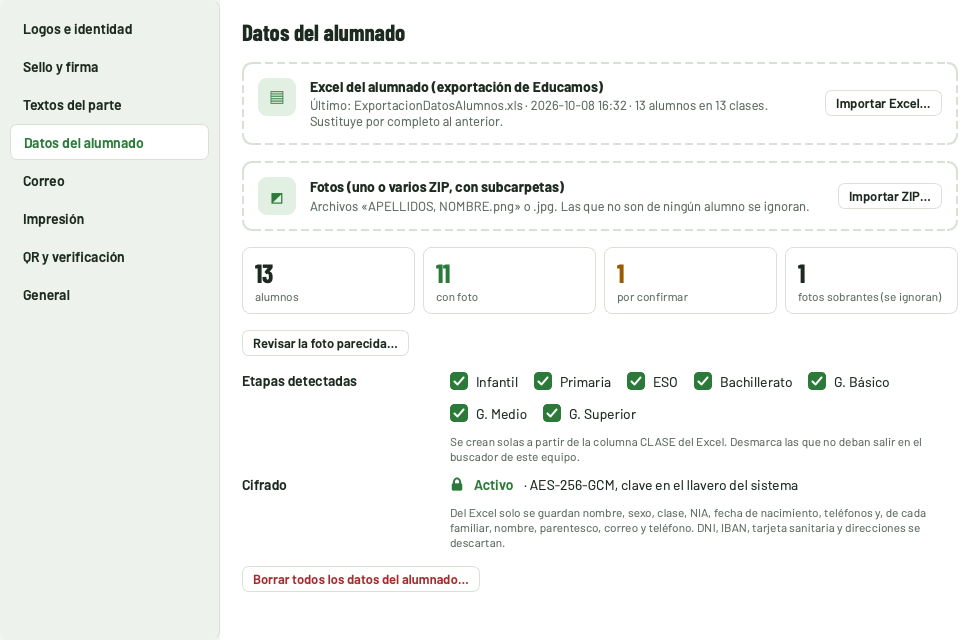
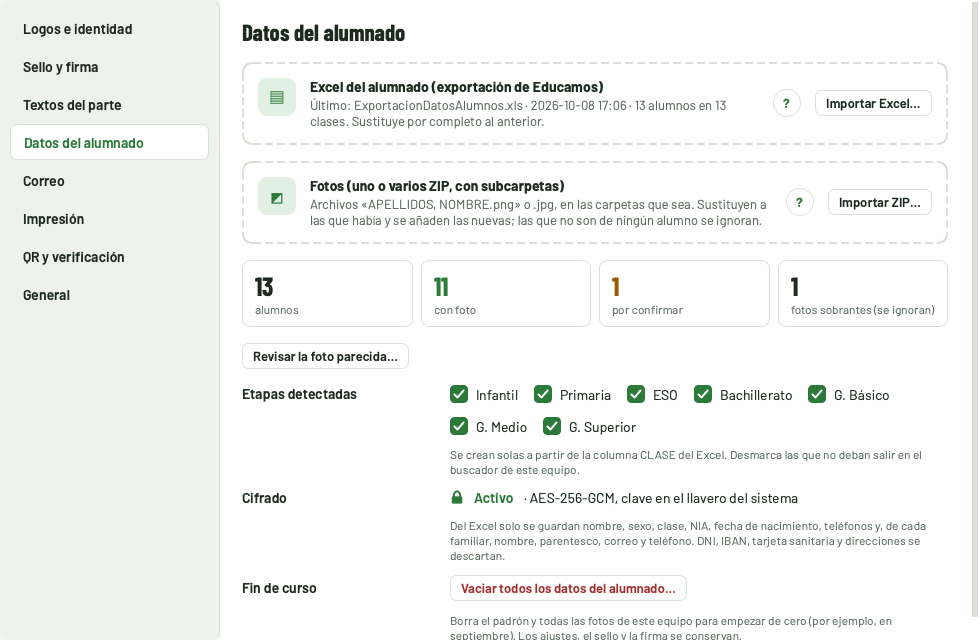
feat(importar): ayuda de Educamos y de fotos, papelera tras cifrar y vaciado de fin de curso (0.3.0)

diff --git a/src/partes_salida/ui/ajustes.py b/src/partes_salida/ui/ajustes.py
@@ -42,9 +42,17 @@ from ..modelo import ETAPA_CORTA, Alumno
 from ..rutas import carpeta_datos
 from ..sistema import arranque_con_sistema
 from . import estilo
+from .ayuda import AYUDA_EXCEL, AYUDA_FOTOS, DialogoAyuda
 from .componentes import FlujoLayout, Miniatura, Tarea, ZonaSoltar, boton, etiqueta
 
 logger = logging.getLogger(__name__)
+
+def enviar_a_papelera(ruta: str) -> bool:
+    from PyQt6.QtCore import QFile
+
+    resultado = QFile.moveToTrash(ruta)
+    return bool(resultado[0] if isinstance(resultado, tuple) else resultado)
+
 
 APARTADOS = [
     "Logos e identidad",
@@ -279,14 +287,17 @@ class DialogoAjustes(QDialog):
         self.zona_excel = ZonaSoltar(
             "Excel del alumnado (exportación de Educamos)", "", "Importar Excel…", (".xls", ".xlsx"), "▤"
         )
+        self.zona_excel.con_ayuda(lambda: self._ayuda(AYUDA_EXCEL))
         self.zona_excel.boton.clicked.connect(self._elegir_excel)
         self.zona_excel.archivos.connect(lambda r: self._importar_excel(r[0]))
         ap.poner(self.zona_excel)
         self.zona_fotos = ZonaSoltar(
             "Fotos (uno o varios ZIP, con subcarpetas)",
-            "Archivos «APELLIDOS, NOMBRE.png» o .jpg. Las que no son de ningún alumno se ignoran.",
+            "Archivos «APELLIDOS, NOMBRE.png» o .jpg, en las carpetas que sea. Sustituyen a las que había y se "
+            "añaden las nuevas; las que no son de ningún alumno se ignoran.",
             "Importar ZIP…", (".zip",), "◩",
         )
+        self.zona_fotos.con_ayuda(lambda: self._ayuda(AYUDA_FOTOS))
         self.zona_fotos.boton.clicked.connect(self._elegir_zips)
         self.zona_fotos.archivos.connect(self._importar_fotos)
         ap.poner(self.zona_fotos)
@@ -330,9 +341,11 @@ class DialogoAjustes(QDialog):
             "Del Excel solo se guardan nombre, sexo, clase, NIA, fecha de nacimiento, teléfonos y, de cada familiar, "
             "nombre, parentesco, correo y teléfono. DNI, IBAN, tarjeta sanitaria y direcciones se descartan.",
         )
-        borrar = boton("Borrar todos los datos del alumnado…", pequeno=True, peligro=True)
+        borrar = boton("Vaciar todos los datos del alumnado…", pequeno=True, peligro=True)
         borrar.clicked.connect(self._borrar_datos)
-        ap.poner(_fila(borrar))
+        ap.campo("Fin de curso", _fila(borrar),
+                 "Borra el padrón y todas las fotos de este equipo para empezar de cero (por ejemplo, en septiembre). "
+                 "Los ajustes, el sello y la firma se conservan.")
         ap.fin()
         self._refrescar_datos()
         return ap
@@ -546,6 +559,7 @@ class DialogoAjustes(QDialog):
             if not self.ctx.con_foto:
                 texto += "\n\nAhora importa los ZIP con las fotos."
             QMessageBox.information(self, "Excel importado", texto)
+            self._ofrecer_papelera([ruta], "el Excel")
 
         tarea.terminado.connect(listo)
         self._lanzar(tarea, progreso)
@@ -574,6 +588,7 @@ class DialogoAjustes(QDialog):
             QMessageBox.information(self, "Fotos importadas", texto)
             if informe.dudosas:
                 self._revisar()
+            self._ofrecer_papelera(rutas, "el ZIP" if len(rutas) == 1 else "los ZIP")
 
         tarea.terminado.connect(listo)
         self._lanzar(tarea, progreso)
@@ -594,11 +609,37 @@ class DialogoAjustes(QDialog):
             self.ctx.fotos_cambiadas()
             self._refrescar_datos()
 
+    def _ayuda(self, ayuda) -> None:
+        DialogoAyuda(ayuda, self).exec()
+
+    def _ofrecer_papelera(self, rutas: list[str], que: str) -> None:
+        """Tras cifrar, el original sobra y tiene datos sensibles (RGPD): a la papelera."""
+        existentes = [r for r in rutas if Path(r).exists()]
+        if not existentes:
+            return
+        caja = QMessageBox(self)
+        caja.setIcon(QMessageBox.Icon.Warning)
+        caja.setWindowTitle("Proteger los datos")
+        caja.setText(f"Los datos ya están cifrados en la app. ¿Envío {que} a la papelera?")
+        caja.setInformativeText(
+            "Contiene datos personales del alumnado y no hace falta conservarlo (RGPD). "
+            "Después, vacía la papelera.\n\n" + "\n".join(Path(r).name for r in existentes)
+        )
+        enviar = caja.addButton("Enviar a la papelera", QMessageBox.ButtonRole.AcceptRole)
+        caja.addButton("Lo borraré yo", QMessageBox.ButtonRole.RejectRole)
+        caja.setDefaultButton(enviar)
+        caja.exec()
+        if caja.clickedButton() is not enviar:
+            return
+        fallidos = [Path(r).name for r in existentes if not enviar_a_papelera(r)]
+        if fallidos:
+            QMessageBox.warning(self, "No se ha podido", "Bórralo a mano: " + ", ".join(fallidos))
+
     def _borrar_datos(self) -> None:
         r = QMessageBox.warning(
             self, "Borrar los datos del alumnado",
-            "Se borran el padrón y todas las fotos de este equipo. Los ajustes se conservan.\n\n"
-            "Para recuperarlos habrá que volver a importar el Excel y los ZIP.",
+            "Se borran el padrón y todas las fotos de este equipo. Los ajustes, el sello y la firma se conservan.\n\n"
+            "Para volver a tener datos habrá que importar el Excel y los ZIP del curso nuevo.",
             QMessageBox.StandardButton.Cancel | QMessageBox.StandardButton.Discard,
             QMessageBox.StandardButton.Cancel,
         )

diff --git a/src/partes_salida/ui/ayuda.py b/src/partes_salida/ui/ayuda.py
@@ -1,0 +1,117 @@
+"""Ayudas de la importación: de dónde sale cada archivo y qué hacer con él después.
+
+Los textos están aquí, juntos, para cambiarlos sin tocar la ventana de Ajustes.
+"""
+
+from __future__ import annotations
+
+from dataclasses import dataclass, field
+
+from PyQt6.QtCore import Qt
+from PyQt6.QtGui import QFont
+from PyQt6.QtWidgets import QDialog, QFrame, QGridLayout, QHBoxLayout, QLabel, QVBoxLayout
+
+from . import estilo
+from .componentes import boton, etiqueta
+
+
+@dataclass
+class Ayuda:
+    titulo: str
+    pasos: list[str]
+    aviso: str = ""
+    notas: list[str] = field(default_factory=list)
+
+
+AYUDA_EXCEL = Ayuda(
+    titulo="Cómo descargar el Excel de Educamos",
+    pasos=[
+        "Entra en <b>Educamos</b>.",
+        "Abre el menú <b>Datos</b> → <b>Import/Export</b>.",
+        "Elige <b>Exportación de datos de alumnos</b>.",
+        "Pulsa <b>Exportar</b> y descarga el archivo (<i>ExportacionDatosAlumnos.xls</i>).",
+        "Arrástralo a esta zona o pulsa <b>Importar Excel…</b>",
+    ],
+    aviso=(
+        "El Excel trae datos muy sensibles (DNI, IBAN, salud, direcciones). La app guarda solo lo necesario y lo "
+        "cifra; al terminar te ofrece <b>enviar el archivo a la papelera</b>. Después vacía la papelera: "
+        "conservarlo vulneraría el RGPD."
+    ),
+    notas=[
+        "Importar un Excel nuevo <b>sustituye a todo el alumnado anterior</b>: el archivo es el colegio entero.",
+        "Las fotos de quien sigue en el centro se conservan; las de las bajas se borran solas.",
+    ],
+)
+
+AYUDA_FOTOS = Ayuda(
+    titulo="Cómo preparar las fotos",
+    pasos=[
+        "Reúne las fotos en un <b>ZIP</b> (o en varios). Da igual cómo estén repartidas en carpetas y subcarpetas.",
+        "Cada foto debe llamarse como el alumno en Educamos: <b>APELLIDOS, NOMBRE</b> "
+        "(por ejemplo <i>GARCÍA LÓPEZ, LUCÍA.png</i>), en PNG o JPG. Tildes y mayúsculas dan igual.",
+        "Arrastra el ZIP a esta zona o pulsa <b>Importar ZIP…</b>",
+        "Si el nombre de una foto casi coincide (una tilde, una errata), la app te la enseña para que la confirmes. "
+        "Las que no son de nadie se ignoran.",
+    ],
+    aviso=(
+        "La app descomprime en memoria, reduce y <b>cifra cada foto</b>. El ZIP ya no hace falta: al terminar te "
+        "ofrece <b>enviarlo a la papelera</b>. Vacíala después."
+    ),
+    notas=[
+        "Volver a importar fotos <b>sustituye las que ya tenía</b> un alumno y <b>añade</b> las nuevas.",
+    ],
+)
+
+
+class DialogoAyuda(QDialog):
+    def __init__(self, ayuda: Ayuda, padre=None):
+        super().__init__(padre)
+        self.setWindowTitle("Ayuda")
+        self.setMinimumWidth(560)
+        capa = QVBoxLayout(self)
+        capa.setContentsMargins(26, 22, 26, 20)
+        capa.setSpacing(14)
+        titulo = QLabel(ayuda.titulo)
+        titulo.setFont(estilo.fuente(24, QFont.Weight.Bold, estilo.TITULAR))
+        capa.addWidget(titulo)
+
+        pasos = QGridLayout()
+        pasos.setHorizontalSpacing(12)
+        pasos.setVerticalSpacing(10)
+        for i, texto in enumerate(ayuda.pasos, start=1):
+            numero = QLabel(str(i))
+            numero.setFixedSize(26, 26)
+            numero.setAlignment(Qt.AlignmentFlag.AlignCenter)
+            numero.setStyleSheet(
+                f"background:{estilo.T['accent']};color:{estilo.T['accent_ink']};border-radius:13px;font-weight:700;"
+            )
+            pasos.addWidget(numero, i, 0, Qt.AlignmentFlag.AlignTop)
+            linea = QLabel(texto)
+            linea.setWordWrap(True)
+            linea.setTextFormat(Qt.TextFormat.RichText)
+            pasos.addWidget(linea, i, 1)
+        pasos.setColumnStretch(1, 1)
+        capa.addLayout(pasos)
+
+        if ayuda.aviso:
+            caja = QFrame()
+            caja.setStyleSheet(f"QFrame {{ background:{estilo.T['warn_soft']}; border-radius:9px; }}")
+            fila = QHBoxLayout(caja)
+            fila.setContentsMargins(14, 12, 14, 12)
+            texto = QLabel(f"<b>Protección de datos.</b> {ayuda.aviso}")
+            texto.setWordWrap(True)
+            texto.setStyleSheet(f"color:{estilo.T['warn']};")
+            fila.addWidget(texto)
+            capa.addWidget(caja)
+        if ayuda.notas:
+            n = etiqueta("<br>".join(f"• {nota}" for nota in ayuda.notas), "muted", envolver=True)
+            n.setTextFormat(Qt.TextFormat.RichText)
+            capa.addWidget(n)
+
+        botones = QHBoxLayout()
+        botones.addStretch(1)
+        entendido = boton("Entendido", primario=True)
+        entendido.setDefault(True)
+        entendido.clicked.connect(self.accept)
+        botones.addWidget(entendido)
+        capa.addLayout(botones)

diff --git a/tests/test_interfaz.py b/tests/test_interfaz.py
@@ -163,3 +163,58 @@ def test_presentacion_cuenta_la_carga_y_acerca_de_se_cierra(qtbot, datos):
     a.show()
     qtbot.mouseClick(a, Qt.MouseButton.LeftButton)
     assert not a.isVisible()
+
+
+def test_ayudas_de_importacion_junto_a_cada_zona(qtbot, contexto, monkeypatch):
+    from partes_salida.ui.ajustes import DialogoAjustes
+    from partes_salida.ui.ayuda import AYUDA_EXCEL, AYUDA_FOTOS, DialogoAyuda
+
+    abiertas = []
+    monkeypatch.setattr(DialogoAyuda, "exec", lambda self: abiertas.append(self.windowTitle()) or 1)
+    d = DialogoAjustes(contexto, None, "Datos del alumnado")
+    qtbot.addWidget(d)
+    assert not d.zona_excel.ayuda.isHidden() and not d.zona_fotos.ayuda.isHidden()
+    qtbot.mouseClick(d.zona_excel.ayuda, Qt.MouseButton.LeftButton)
+    qtbot.mouseClick(d.zona_fotos.ayuda, Qt.MouseButton.LeftButton)
+    assert len(abiertas) == 2
+    assert any("Import/Export" in p for p in AYUDA_EXCEL.pasos)
+    assert any("APELLIDOS, NOMBRE" in p for p in AYUDA_FOTOS.pasos)
+    for ayuda in (AYUDA_EXCEL, AYUDA_FOTOS):
+        qtbot.addWidget(DialogoAyuda(ayuda))
+
+
+def test_enviar_a_la_papelera(tmp_path):
+    from partes_salida.ui.ajustes import enviar_a_papelera
+
+    archivo = tmp_path / "x.txt"
+    archivo.write_text("x")
+    if enviar_a_papelera(str(archivo)):
+        assert not archivo.exists()
+
+
+def test_reimportar_excel_sustituye_y_conserva_fotos_de_quien_sigue(contexto, alumnos):
+    nerea = next(a for a in alumnos if a.nombre == "NEREA")
+    marc = next(a for a in alumnos if a.nombre == "MARC")
+    assert contexto.almacen.tiene_foto(nerea.id) and contexto.almacen.tiene_foto(marc.id)
+    borradas = contexto.nuevo_padron([nerea], "nuevo.xlsx")
+    assert [a.id for a in contexto.alumnos] == [nerea.id]
+    assert borradas >= 1 and contexto.almacen.tiene_foto(nerea.id) and not contexto.almacen.tiene_foto(marc.id)
+
+
+def test_reimportar_fotos_sustituye_y_anade(contexto, tmp_path):
+    import zipfile
+
+    from partes_salida.importar_fotos import importar_fotos
+    from tests import ficticios
+
+    nerea = next(a for a in contexto.alumnos if a.nombre == "NEREA")
+    antes = contexto.almacen.leer_foto(nerea.id)
+    ruta = tmp_path / "nuevas.zip"
+    with zipfile.ZipFile(ruta, "w") as z:
+        z.writestr("otra/carpeta/BELTRÁN ROIG, NEREA.jpg", ficticios.retrato(3))
+        z.writestr("QUILES ROMERO, LUCÍA.png", ficticios.retrato(4))
+    inf = importar_fotos([ruta], contexto.alumnos, contexto.almacen)
+    assert inf.asignadas == 2
+    assert contexto.almacen.leer_foto(nerea.id) != antes
+    lucia = next(a for a in contexto.alumnos if a.nombre == "LUCÍA")
+    assert contexto.almacen.tiene_foto(lucia.id)

diff --git a/src/partes_salida/ui/componentes.py b/src/partes_salida/ui/componentes.py
@@ -157,8 +157,22 @@ class ZonaSoltar(QFrame):
         self.explicacion = etiqueta(explicacion, "muted", envolver=True)
         textos.addWidget(self.explicacion)
         fila.addLayout(textos, 1)
+        # Ayuda opcional junto al botón: «?» redondo que abre de dónde sale el archivo.
+        self.ayuda = boton("?", pequeno=True)
+        self.ayuda.setFixedSize(28, 28)
+        self.ayuda.setToolTip("Cómo conseguir y preparar este archivo")
+        self.ayuda.setStyleSheet(
+            f"QPushButton {{ border-radius: 14px; padding: 0; font-weight: 700; color: {estilo.T['accent']}; }}"
+        )
+        self.ayuda.hide()
+        fila.addWidget(self.ayuda, 0, Qt.AlignmentFlag.AlignVCenter)
         self.boton = boton(texto_boton, pequeno=True)
         fila.addWidget(self.boton, 0, Qt.AlignmentFlag.AlignVCenter)
+
+    def con_ayuda(self, abrir: Callable[[], None]) -> ZonaSoltar:
+        self.ayuda.clicked.connect(abrir)
+        self.ayuda.show()
+        return self
 
     def _validos(self, evento) -> list[str]:
         urls = evento.mimeData().urls() if evento.mimeData().hasUrls() else []

diff --git a/src/partes_salida/__init__.py b/src/partes_salida/__init__.py
@@ -1,4 +1,4 @@
 """Partes de salida: imprime el pase de salida del alumnado en DIN-A6."""
 
-__version__ = "0.2.0"
+__version__ = "0.3.0"
 NOMBRE_APP = "Partes de salida"

diff --git a/docs/ESPECIFICACION.md b/docs/ESPECIFICACION.md
@@ -38,7 +38,10 @@ Cada jefatura instala la app en su equipo y la configura a su manera (logos, sel
 
 - Excel de Educamos (`.xls` o `.xlsx`): sustituye el padrón entero. Columnas por cabecera; se leen solo las de `importar_excel.COLUMNAS`. Alumnos sin NIA se identifican por su ID de persona.
 - Fotos: uno o varios ZIP, con carpetas y subcarpetas; archivos `APELLIDOS, NOMBRE.png|jpg`. Se casan sin tildes ni mayúsculas; las casi iguales (≥ 88 % de parecido) se confirman en una ventana; las que no son de nadie se ignoran. Si un alumno sale dos veces, gana la foto más reciente del ZIP.
-- Al importar un Excel nuevo se borran las fotos de quien ya no está.
+- **Volver a importar**: un Excel nuevo sustituye a todo el alumnado (es el colegio entero) y borra las fotos de quien ya no está; las de quien sigue se conservan. Unas fotos nuevas sustituyen a las que ya tenía cada alumno y se añaden las que faltaban.
+- **Después de importar**, la app ofrece enviar el Excel o los ZIP a la papelera (RGPD): los datos ya están cifrados en la app.
+- **Ayuda «?»** junto a cada importación: dónde se descarga el Excel en Educamos (Datos → Import/Export → Exportación de datos de alumnos → Exportar) y cómo preparar el ZIP de fotos. Textos en `ui/ayuda.py`.
+- **Fin de curso**: «Vaciar todos los datos del alumnado» borra padrón y fotos; ajustes, sello y firma se conservan.
 - También por arrastrar y soltar sobre la zona de cada importación.
 
 ### CU-3 Configurar el equipo (Ajustes)

diff --git a/CHANGELOG.md b/CHANGELOG.md
@@ -2,6 +2,18 @@
 
 Formato [Keep a Changelog](https://keepachangelog.com/es-ES/1.1.0/) y [SemVer](https://semver.org/lang/es/). La entrada de cada versión es también la nota de su release en GitHub. Lo más reciente arriba.
 
+## [0.3.0] - 2026-10-08
+
+### Añadido
+
+- Botón de ayuda «?» junto a la importación del Excel (dónde descargarlo en Educamos: Datos → Import/Export → Exportación de datos de alumnos → Exportar) y junto a la de las fotos (cómo preparar el ZIP y nombrar cada foto «APELLIDOS, NOMBRE»).
+- Tras importar el Excel o los ZIP, la app ofrece enviarlos a la papelera: los datos ya están cifrados y el original tiene datos sensibles (RGPD).
+
+### Cambiado
+
+- «Vaciar todos los datos del alumnado» pasa al apartado «Fin de curso», para empezar de cero en septiembre.
+- Ajustes explica qué pasa al volver a importar: un Excel nuevo sustituye a todo el alumnado (y borra las fotos de las bajas); unas fotos nuevas sustituyen a las anteriores y se añaden las que falten.
+
 ## [0.2.0] - 2026-10-08
 
 Primera versión con instaladores para macOS y Windows.

diff --git a/docs/OPERACIONES.md b/docs/OPERACIONES.md
@@ -19,7 +19,11 @@ Buscar → comprobar → ⌘P / Ctrl+P. La app queda en la barra de menús o la 
 
 ## 3. Actualizar el alumnado
 
-Cuando cambie la matrícula (inicio de curso, altas): exportar de Educamos y arrastrar el Excel a Ajustes → Datos del alumnado. Sustituye el padrón y borra las fotos de las bajas. Fotos nuevas: arrastrar los ZIP (se pueden repetir; gana la más reciente).
+Cuando cambie la matrícula (inicio de curso, altas): en Educamos, **Datos → Import/Export → Exportación de datos de alumnos → Exportar**, y arrastrar el Excel a Ajustes → Datos del alumnado (la «?» lo recuerda). Sustituye el padrón y borra las fotos de las bajas. Fotos nuevas: arrastrar los ZIP; sustituyen a las que había y añaden las que faltaban.
+
+Al terminar cada importación, aceptar **enviar el archivo a la papelera** y vaciarla: el original tiene datos sensibles y la app ya los guarda cifrados.
+
+**Fin de curso**: Ajustes → Datos del alumnado → «Vaciar todos los datos del alumnado» y, en septiembre, importar de nuevo.
 
 ## 4. Restaurar o cambiar de equipo
 

diff --git a/docs/SEGURIDAD_Y_DATOS.md b/docs/SEGURIDAD_Y_DATOS.md
@@ -10,7 +10,7 @@ La app trata datos de menores (nombre, foto, curso, teléfonos y correos de la f
 | ZIP de fotos | Una foto por alumno, reducida a 360 × 480 JPEG | Fotos que no son de ningún alumno del Excel, nombres de archivo y carpetas |
 | Ajustes | Logos, sello, firma, textos, contactos de jefatura, impresora | — |
 
-La lista exacta de columnas leídas está en `src/partes_salida/importar_excel.py` (`COLUMNAS`); el Excel y los ZIP originales no se copian: se leen en memoria.
+La lista exacta de columnas leídas está en `src/partes_salida/importar_excel.py` (`COLUMNAS`); el Excel y los ZIP originales no se copian: se leen en memoria. Al terminar, la app ofrece **enviarlos a la papelera** (y la ayuda recuerda vaciarla): conservarlos en el equipo es innecesario y contrario al RGPD.
 
 ## 2. Dónde vive cada cosa
 

diff --git a/docs/ARQUITECTURA.md b/docs/ARQUITECTURA.md
@@ -50,6 +50,7 @@ flowchart TB
 | `ui/estilo.py` | Tokens claro y oscuro, hoja de estilos, tipografías, iconos dibujados | Fuente de verdad visual |
 | `ui/ventana.py` | Ventana principal: lista con delegado, ficha, vista previa, impresión y aviso | |
 | `ui/ajustes.py` | Ventana de Ajustes; importaciones en `Tarea` (QThread) | |
+| `ui/ayuda.py` | Textos y diálogo de ayuda de la importación (Excel de Educamos y ZIP de fotos) | Cambiar aquí los pasos si Educamos cambia de menú |
 | `ui/presentacion.py` | Presentación al abrir con el progreso real (`Contexto(avance=…)`) y «Acerca de» | Dibujada a mano (QPainter) |
 | `ui/dialogos.py` | Fotos por confirmar; diálogo de actualización y descarga | El aviso se ancla en la barra de la ventana |
 
